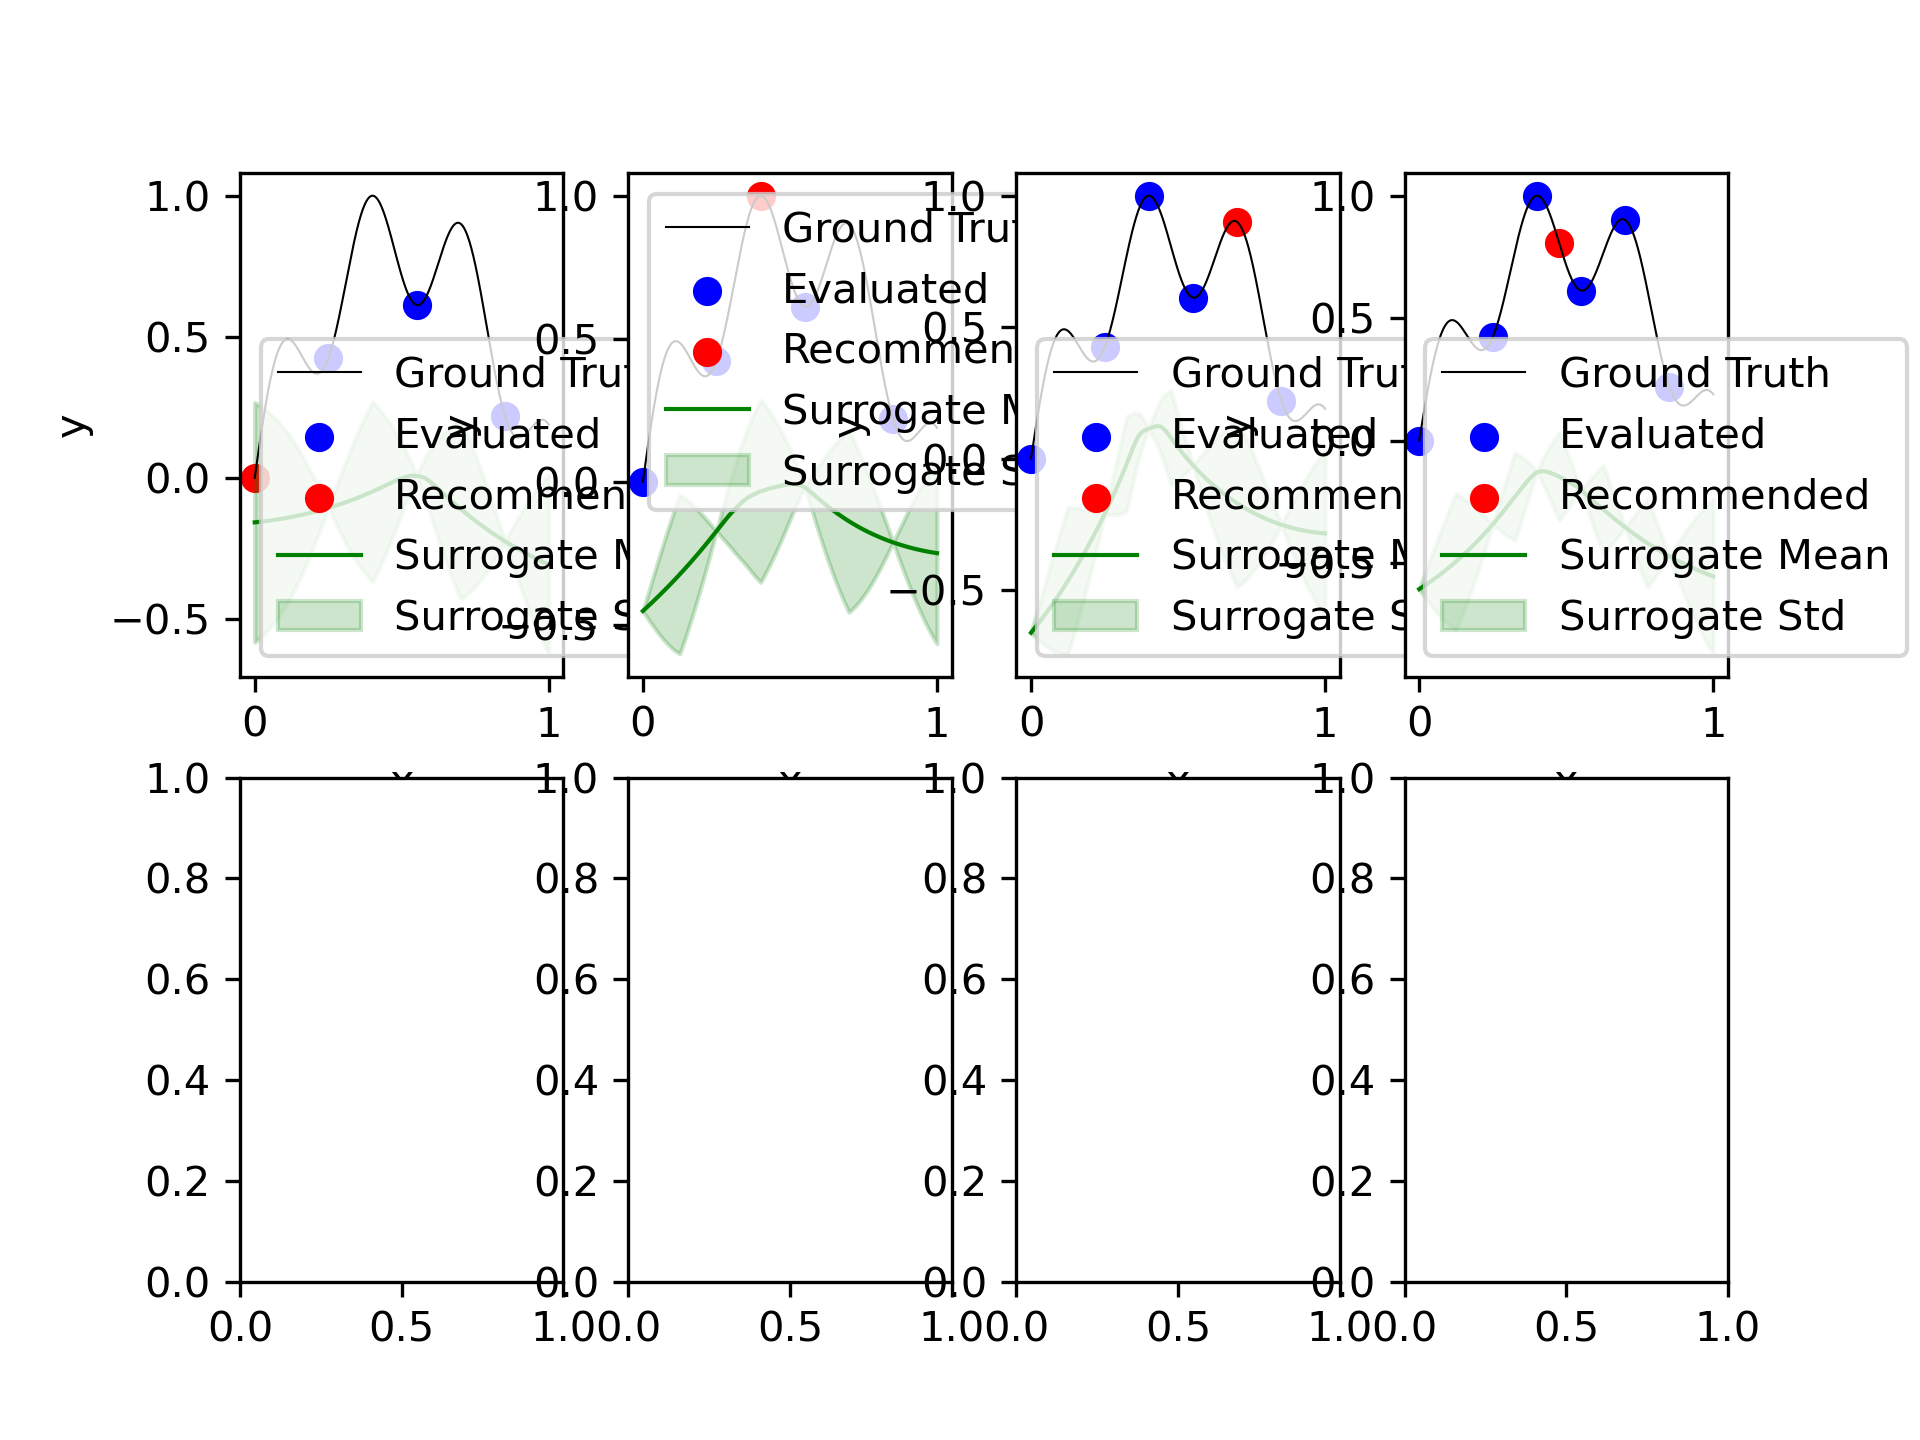
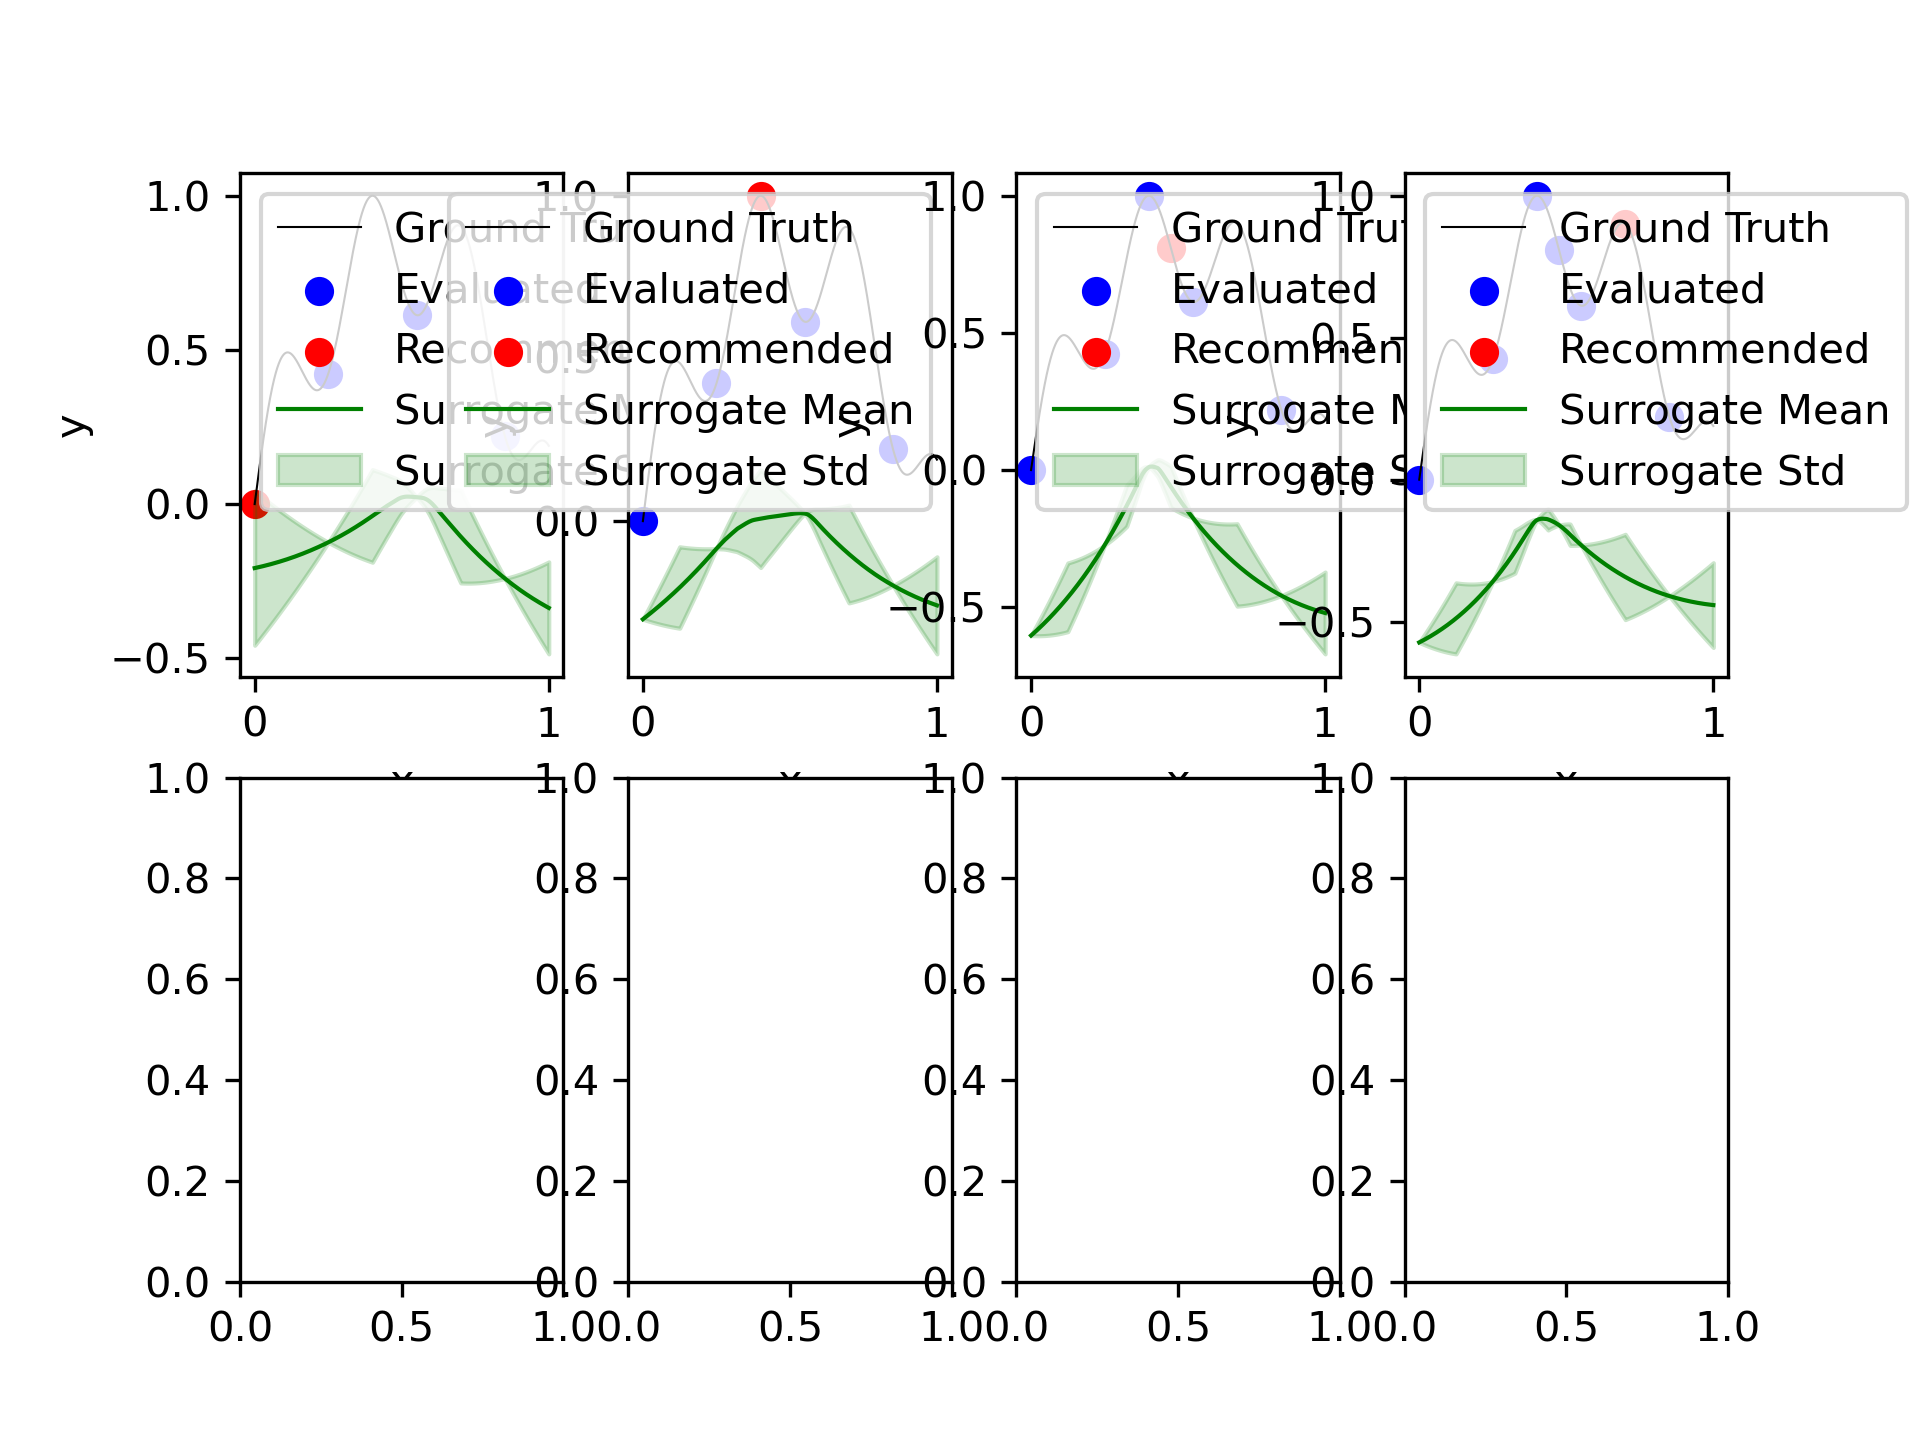
working version

Changed region(s): [[0.0625, 0.125, 1.0, 0.4688], [0.9688, 0.4375, 1.0, 0.4688]]

diff --git a/poc/main_poc.py b/poc/main_poc.py
@@ -19,7 +19,7 @@ initial_design_idxs = [250, 550, 850]
 config = {'is_rank_version': True, 'eta': 0.03, 'optim_iters': 300, 'train_batch_size': 300,
           'acquisition_batch_size': 1000, 'log_iters': 300, 'hidden_layers_units': [64, 64],
                            'use_batch_norm': False, 'use_dropout': True, 'dropout_rate': 0.2,
-                           'alpha': 0.5, 'beta': 2.0, 'gamma': 5.0}
+                           'alpha': 1.0, 'beta': 2.0, 'gamma': 30.0}
 nn_bo = NeuralNetworkBOSynth(config=config)
 
 # visualize SMBO

diff --git a/methods/nn_bo_synth.py b/methods/nn_bo_synth.py
@@ -195,7 +195,7 @@ class NeuralNetworkBOSynth():
         # compute pairwisse distances
         D = cdist(X_first, X_obs_tensor, lambda u, v: np.abs(u-v).mean())
         # compute weighted RBF
-        D = self.alpha*(np.tanh(self.gamma * D))
+        #D = self.alpha*(np.tanh(self.gamma * D))
         # compute synthetic uncertainty
         y_std = np.min(D, axis=1).astype(float)
 
